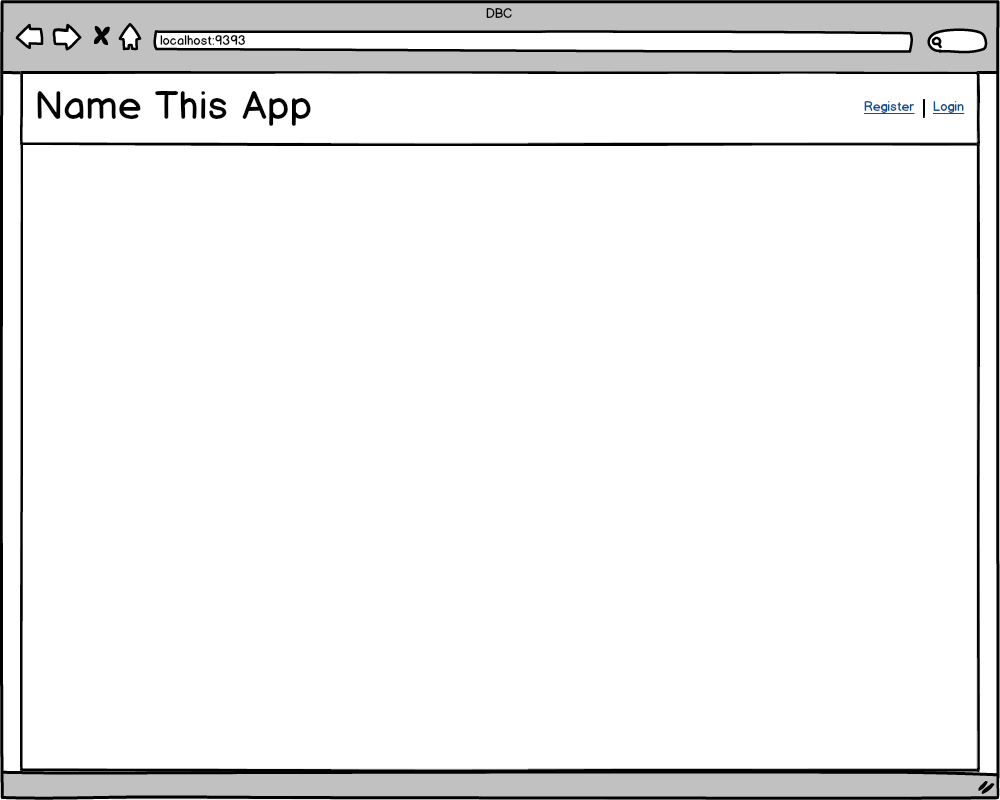
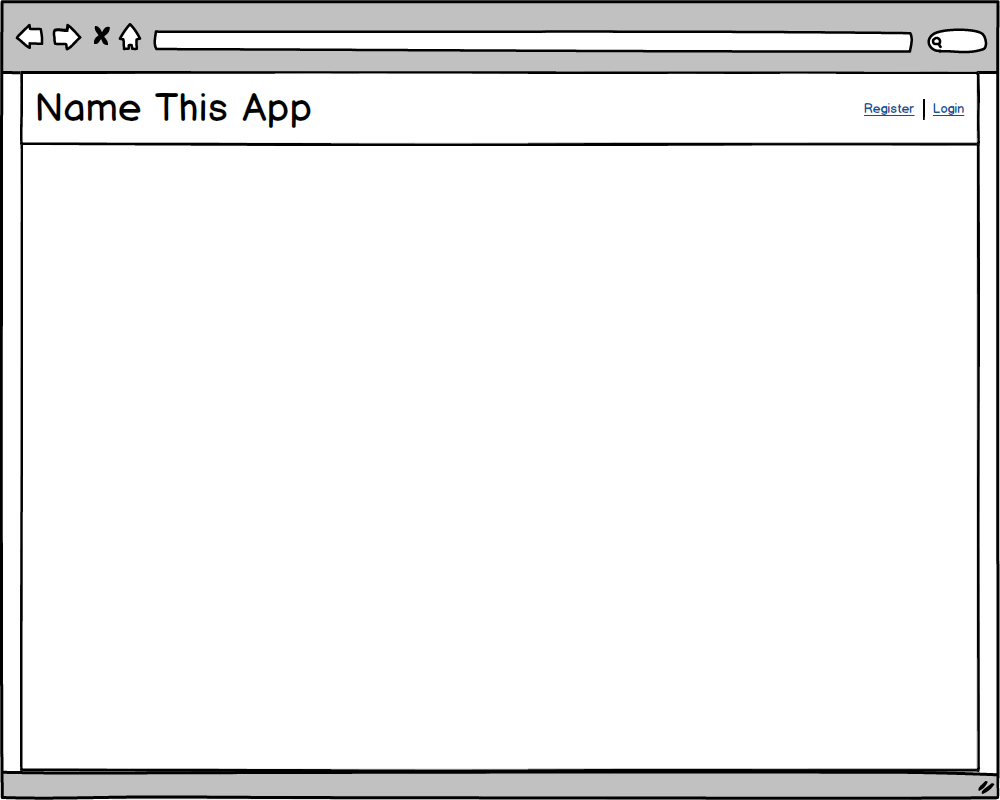
Add note about dealing with URL-less mockups

diff --git a/part-3/README.md b/part-3/README.md
@@ -43,6 +43,10 @@ the phase 2 assessment.  Once there, run ...
 0. `$ bundle`
 0. `$ bundle exec rake db:create`
 
+_NOTE:_ In the mockups below the URLs are omitted. You should determine the
+appropriate path(s) based on conventions / patterns you have learned about in
+Phase 2.
+
 ### Release 0: User Registration
 _Given:_
 * The current user does not have an account.
